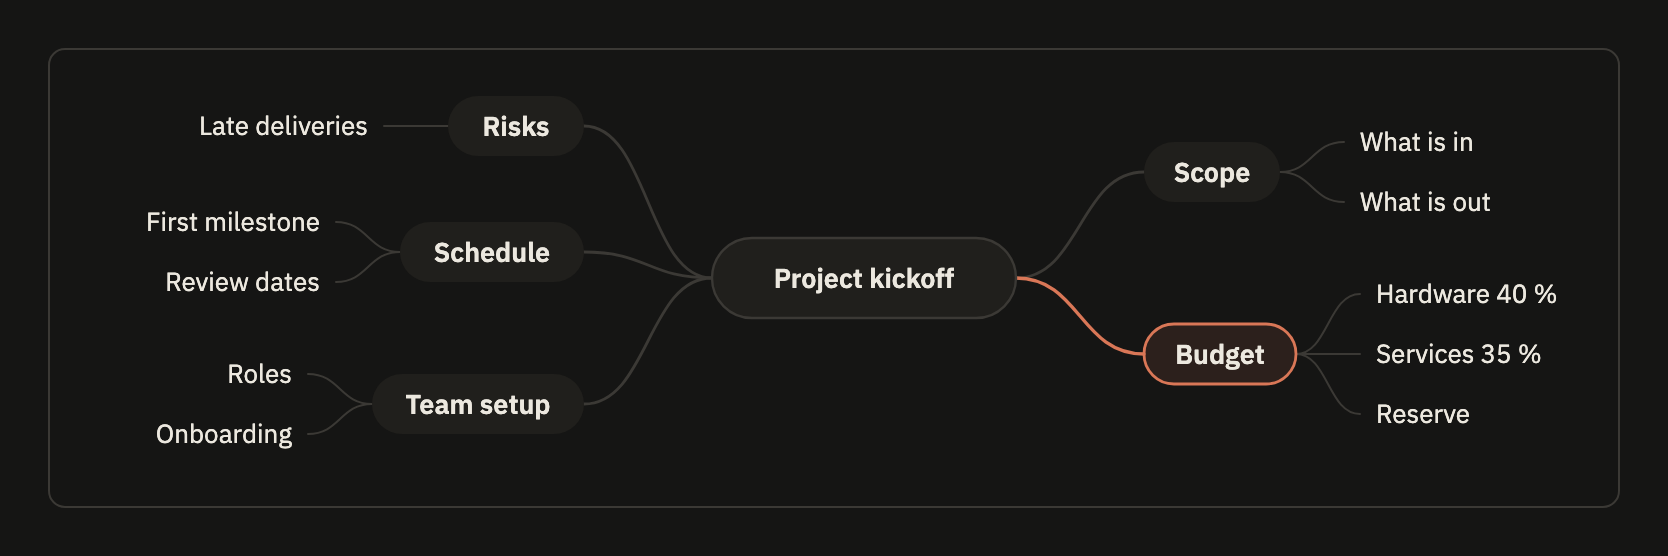
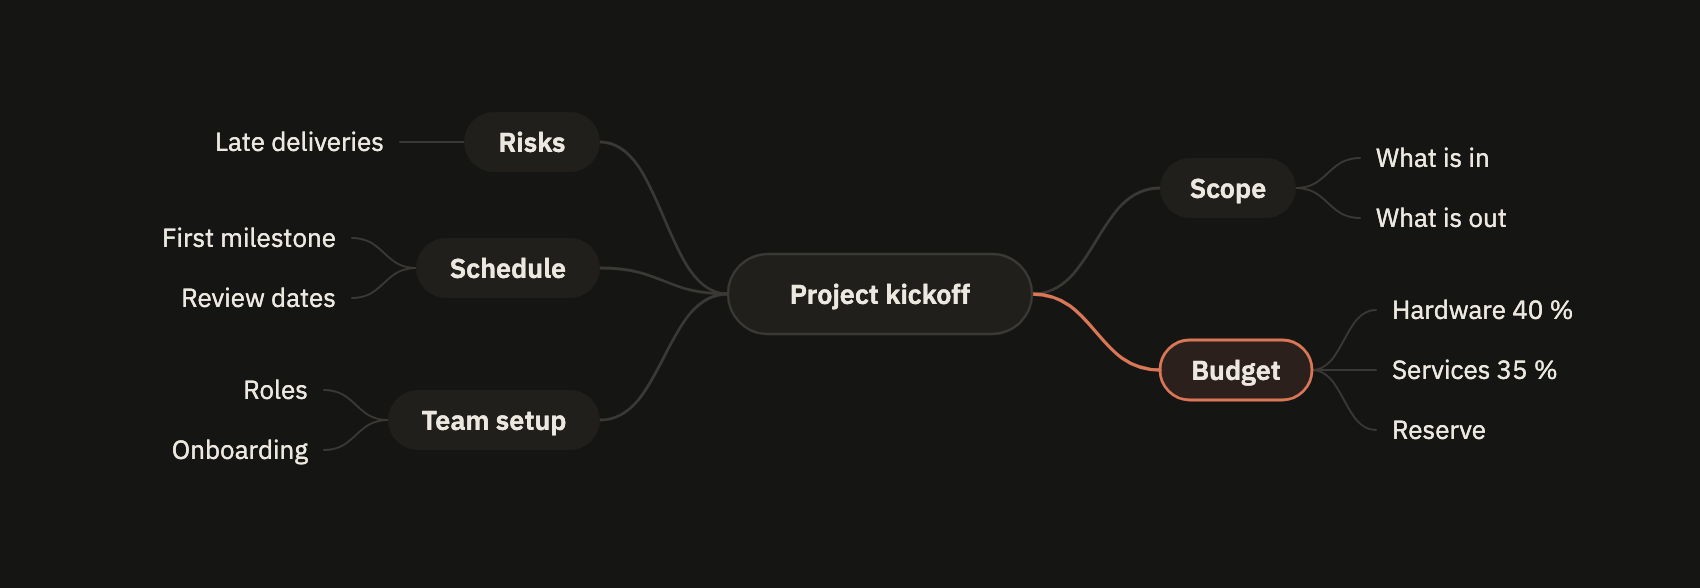
repo: README screenshots in the new look
Drawn again by scripts/screenshots.ts after the frame, bends, notes, roles and room changes.

diff --git a/docs/gallery.html b/docs/gallery.html
@@ -16,9 +16,9 @@
 </style>
 </head>
 <body>
-<figure id="mindmap"><svg xmlns="http://www.w3.org/2000/svg" viewBox="0 0 786 230" width="786" height="230" font-family="&quot;IBM Plex Sans&quot;, sans-serif"><defs></defs><rect x="0.5" y="0.5" width="785" height="229" rx="8" fill="#151514" stroke="#3b3935" stroke-width="1"/><path d="M484,115 C516,115 516,62 548,62" fill="none" stroke="#3b3935" stroke-width="1.4" stroke-linecap="round"/><path d="M616,62 C632,62 632,47 648,47" fill="none" stroke="#3b3935" stroke-width="1" stroke-linecap="round"/><path d="M616,62 C632,62 632,77 648,77" fill="none" stroke="#3b3935" stroke-width="1" stroke-linecap="round"/><path d="M484,115 C516,115 516,153 548,153" fill="none" stroke="#d97757" stroke-width="1.7" stroke-linecap="round"/><path d="M624,153 C640,153 640,123 656,123" fill="none" stroke="#3b3935" stroke-width="1" stroke-linecap="round"/><path d="M624,153 C640,153 640,153 656,153" fill="none" stroke="#3b3935" stroke-width="1" stroke-linecap="round"/><path d="M624,153 C640,153 640,183 656,183" fill="none" stroke="#3b3935" stroke-width="1" stroke-linecap="round"/><path d="M332,115 C300,115 300,39 268,39" fill="none" stroke="#3b3935" stroke-width="1.4" stroke-linecap="round"/><path d="M200,39 C184,39 184,39 168,39" fill="none" stroke="#3b3935" stroke-width="1" stroke-linecap="round"/><path d="M332,115 C300,115 300,102 268,102" fill="none" stroke="#3b3935" stroke-width="1.4" stroke-linecap="round"/><path d="M176,102 C160,102 160,87 144,87" fill="none" stroke="#3b3935" stroke-width="1" stroke-linecap="round"/><path d="M176,102 C160,102 160,117 144,117" fill="none" stroke="#3b3935" stroke-width="1" stroke-linecap="round"/><path d="M332,115 C300,115 300,178 268,178" fill="none" stroke="#3b3935" stroke-width="1.4" stroke-linecap="round"/><path d="M162,178 C146,178 146,163 130,163" fill="none" stroke="#3b3935" stroke-width="1" stroke-linecap="round"/><path d="M162,178 C146,178 146,193 130,193" fill="none" stroke="#3b3935" stroke-width="1" stroke-linecap="round"/><rect x="332" y="95" width="152" height="40" rx="20" fill="#201f1c" stroke="#3b3935" stroke-width="1.2"/><text x="408" y="115" fill="#ece8df" font-size="13.5" font-weight="600" text-anchor="middle" dominant-baseline="central">Project kickoff</text><rect x="548" y="47" width="68" height="30" rx="15" fill="#201f1c"/><text x="582" y="62" fill="#ece8df" font-size="13.5" font-weight="600" text-anchor="middle" dominant-baseline="central">Scope</text><text x="656" y="47" fill="#ece8df" font-size="13" text-anchor="start" dominant-baseline="central">What is in</text><text x="656" y="77" fill="#ece8df" font-size="13" text-anchor="start" dominant-baseline="central">What is out</text><rect x="548" y="138" width="76" height="30" rx="15" fill="#d97757" fill-opacity="0.12" stroke="#d97757" stroke-width="1.4"/><text x="586" y="153" fill="#ece8df" font-size="13.5" font-weight="600" text-anchor="middle" dominant-baseline="central">Budget</text><text x="664" y="123" fill="#ece8df" font-size="13" text-anchor="start" dominant-baseline="central">Hardware 40 %</text><text x="664" y="153" fill="#ece8df" font-size="13" text-anchor="start" dominant-baseline="central">Services 35 %</text><text x="664" y="183" fill="#ece8df" font-size="13" text-anchor="start" dominant-baseline="central">Reserve</text><rect x="200" y="24" width="68" height="30" rx="15" fill="#201f1c"/><text x="234" y="39" fill="#ece8df" font-size="13.5" font-weight="600" text-anchor="middle" dominant-baseline="central">Risks</text><text x="160" y="39" fill="#ece8df" font-size="13" text-anchor="end" dominant-baseline="central">Late deliveries</text><rect x="176" y="87" width="92" height="30" rx="15" fill="#201f1c"/><text x="222" y="102" fill="#ece8df" font-size="13.5" font-weight="600" text-anchor="middle" dominant-baseline="central">Schedule</text><text x="136" y="87" fill="#ece8df" font-size="13" text-anchor="end" dominant-baseline="central">First milestone</text><text x="136" y="117" fill="#ece8df" font-size="13" text-anchor="end" dominant-baseline="central">Review dates</text><rect x="162" y="163" width="106" height="30" rx="15" fill="#201f1c"/><text x="215" y="178" fill="#ece8df" font-size="13.5" font-weight="600" text-anchor="middle" dominant-baseline="central">Team setup</text><text x="122" y="163" fill="#ece8df" font-size="13" text-anchor="end" dominant-baseline="central">Roles</text><text x="122" y="193" fill="#ece8df" font-size="13" text-anchor="end" dominant-baseline="central">Onboarding</text></svg></figure>
-<figure id="swimlane"><svg xmlns="http://www.w3.org/2000/svg" viewBox="0 0 1624 464" width="1624" height="464" font-family="&quot;IBM Plex Sans&quot;, sans-serif"><defs><marker id="swimlane-arrow" viewBox="0 0 10 10" refX="9" refY="5" markerWidth="7" markerHeight="7" orient="auto-start-reverse"><path d="M0,0 L10,5 L0,10 z" fill="#a29e94"/></marker><marker id="swimlane-warn" viewBox="0 0 10 10" refX="9" refY="5" markerWidth="7" markerHeight="7" orient="auto-start-reverse"><path d="M0,0 L10,5 L0,10 z" fill="#e3a33f"/></marker></defs><rect x="0.5" y="0.5" width="1623" height="463" rx="8" fill="#151514" stroke="#3b3935" stroke-width="1"/><rect x="24" y="24" width="1576" height="416" rx="6" fill="none" stroke="#3b3935" stroke-width="1"/><line x1="24" y1="148" x2="1600" y2="148" stroke="#3b3935" stroke-width="1"/><line x1="24" y1="260" x2="1600" y2="260" stroke="#3b3935" stroke-width="1"/><line x1="24" y1="360" x2="1600" y2="360" stroke="#3b3935" stroke-width="1"/><line x1="140" y1="24" x2="140" y2="440" stroke="#3b3935" stroke-width="1"/><text x="38" y="86" fill="#a29e94" font-size="11.5" font-weight="600" letter-spacing="0.08em" dominant-baseline="central">REQUESTER</text><text x="38" y="204" fill="#a29e94" font-size="11.5" font-weight="600" letter-spacing="0.08em" dominant-baseline="central">APPROVER</text><text x="38" y="310" fill="#a29e94" font-size="11.5" font-weight="600" letter-spacing="0.08em" dominant-baseline="central">PURCHASING</text><text x="38" y="400" fill="#a29e94" font-size="11.5" font-weight="600" letter-spacing="0.08em" dominant-baseline="central">FINANCE</text><polyline points="324,98 344,98 344,204 360,204" fill="none" stroke="#a29e94" stroke-width="1.4" marker-end="url(#swimlane-arrow)"/><polyline points="524,204 560,204" fill="none" stroke="#a29e94" stroke-width="1.4" marker-end="url(#swimlane-arrow)"/><polyline points="634,240 634,310 748,310" fill="none" stroke="#a29e94" stroke-width="1.4" marker-end="url(#swimlane-arrow)"/><polyline points="634,168 634,98 748,98" fill="none" stroke="#a29e94" stroke-width="1.4" marker-end="url(#swimlane-arrow)"/><polyline points="832,78 832,40 444,40 444,180" fill="none" stroke="#a29e94" stroke-width="1.4" stroke-dasharray="5 4" marker-end="url(#swimlane-arrow)"/><polyline points="912,310 948,310" fill="none" stroke="#a29e94" stroke-width="1.4" marker-end="url(#swimlane-arrow)"/><polyline points="1112,310 1130,310 1130,400 1212,400" fill="none" stroke="#a29e94" stroke-width="1.4" marker-end="url(#swimlane-arrow)"/><polyline points="1376,400 1412,400" fill="none" stroke="#a29e94" stroke-width="1.4" marker-end="url(#swimlane-arrow)"/><text fill="#a29e94" font-family="&quot;IBM Plex Mono&quot;, monospace" font-size="11.5" x="729.5" y="294.5" text-anchor="middle" dominant-baseline="central">yes</text><text fill="#a29e94" font-family="&quot;IBM Plex Mono&quot;, monospace" font-size="11.5" x="733" y="82.5" text-anchor="middle" dominant-baseline="central">no</text><text fill="#a29e94" font-family="&quot;IBM Plex Mono&quot;, monospace" font-size="11.5" x="1179.5" y="384.5" text-anchor="middle" dominant-baseline="central">invoice</text><rect x="164" y="68" width="160" height="60" rx="6" fill="#151514" stroke="#3b3935" stroke-width="1.2"/><text x="244" y="89" fill="#ece8df" font-size="13.5" font-weight="600" text-anchor="middle" dominant-baseline="central">Submit purchase</text><text x="244" y="107" fill="#ece8df" font-size="13.5" font-weight="600" text-anchor="middle" dominant-baseline="central">request</text><rect x="752" y="78" width="160" height="40" rx="6" fill="#151514" stroke="#3b3935" stroke-width="1.2"/><text x="832" y="98" fill="#ece8df" font-size="13" text-anchor="middle" dominant-baseline="central">Revise request</text><rect x="364" y="184" width="160" height="40" rx="6" fill="#151514" stroke="#3b3935" stroke-width="1.2"/><text x="444" y="204" fill="#ece8df" font-size="13" text-anchor="middle" dominant-baseline="central">Review request</text><polygon points="634,168 704,204 634,240 564,204" fill="#151514" stroke="#3b3935" stroke-width="1.2"/><text x="634" y="195" fill="#ece8df" font-size="13" text-anchor="middle" dominant-baseline="central">Within</text><text x="634" y="213" fill="#ece8df" font-size="13" text-anchor="middle" dominant-baseline="central">budget?</text><rect x="752" y="280" width="160" height="60" rx="6" fill="#151514" stroke="#d97757" stroke-width="2"/><text x="832" y="301" fill="#ece8df" font-size="13" text-anchor="middle" dominant-baseline="central">Order from</text><text x="832" y="319" fill="#ece8df" font-size="13" text-anchor="middle" dominant-baseline="central">supplier</text><rect x="952" y="290" width="160" height="40" rx="6" fill="#151514" stroke="#3b3935" stroke-width="1.2"/><text x="1032" y="310" fill="#ece8df" font-size="13" text-anchor="middle" dominant-baseline="central">Receive goods</text><rect x="1216" y="380" width="160" height="40" rx="6" fill="#151514" stroke="#3b3935" stroke-width="1.2"/><text x="1296" y="400" fill="#ece8df" font-size="13" text-anchor="middle" dominant-baseline="central">Pay invoice</text><rect x="1416" y="380" width="160" height="40" rx="6" fill="#151514" stroke="#3b3935" stroke-width="1.2"/><text x="1496" y="400" fill="#ece8df" font-size="13.5" font-weight="600" text-anchor="middle" dominant-baseline="central">Close request</text></svg></figure>
-<figure id="sequence"><svg xmlns="http://www.w3.org/2000/svg" viewBox="0 0 552 580" width="552" height="580" font-family="&quot;IBM Plex Sans&quot;, sans-serif"><defs><marker id="sequence-arrow" viewBox="0 0 10 10" refX="9" refY="5" markerWidth="7" markerHeight="7" orient="auto-start-reverse"><path d="M0,0 L10,5 L0,10 z" fill="#a29e94"/></marker><marker id="sequence-open" viewBox="0 0 10 10" refX="9" refY="5" markerWidth="7" markerHeight="7" orient="auto-start-reverse"><path d="M1,1 L9,5 L1,9" fill="none" stroke="#a29e94" stroke-width="1.6"/></marker><marker id="sequence-cross" viewBox="0 0 10 10" refX="5" refY="5" markerWidth="7" markerHeight="7" orient="auto-start-reverse"><path d="M2,2 L8,8 M8,2 L2,8" fill="none" stroke="#a29e94" stroke-width="1.6"/></marker></defs><rect x="0.5" y="0.5" width="551" height="579" rx="8" fill="#151514" stroke="#3b3935" stroke-width="1"/><rect x="66" y="88" width="152" height="111" rx="10" fill="#201f1c" stroke="#3b3935" stroke-width="1.2"/><rect x="66" y="217" width="430" height="189" rx="10" fill="#201f1c" stroke="#3b3935" stroke-width="1.2"/><line x1="82" y1="64" x2="82" y2="556" stroke="#3b3935" stroke-width="1" stroke-dasharray="4 4"/><line x1="202" y1="64" x2="202" y2="556" stroke="#3b3935" stroke-width="1" stroke-dasharray="4 4"/><line x1="322" y1="64" x2="322" y2="556" stroke="#3b3935" stroke-width="1" stroke-dasharray="4 4"/><line x1="480" y1="64" x2="480" y2="556" stroke="#3b3935" stroke-width="1" stroke-dasharray="4 4"/><rect x="34" y="24" width="96" height="40" rx="6" fill="#151514" stroke="#3b3935" stroke-width="1.2"/><text x="82" y="44" fill="#ece8df" font-size="13.5" font-weight="600" text-anchor="middle" dominant-baseline="central">Poller</text><rect x="154" y="24" width="96" height="40" rx="6" fill="#151514" stroke="#3b3935" stroke-width="1.2"/><text x="202" y="44" fill="#ece8df" font-size="13.5" font-weight="600" text-anchor="middle" dominant-baseline="central">git</text><rect x="274" y="24" width="96" height="40" rx="6" fill="#151514" stroke="#3b3935" stroke-width="1.2"/><text x="322" y="44" fill="#ece8df" font-size="13.5" font-weight="600" text-anchor="middle" dominant-baseline="central">Indexer</text><rect x="432" y="24" width="96" height="40" rx="6" fill="#151514" stroke="#3b3935" stroke-width="1.2"/><text x="480" y="44" fill="#ece8df" font-size="13.5" font-weight="600" text-anchor="middle" dominant-baseline="central">Store</text><rect x="24" y="424" width="236" height="32" rx="6" fill="#201f1c" stroke="#3b3935" stroke-width="1"/><text x="36" y="440" fill="#ece8df" font-size="13" dominant-baseline="central">a vanished branch is an error</text><polyline points="82,142 201,142" fill="none" stroke="#a29e94" stroke-width="1.4" marker-end="url(#sequence-arrow)"/><polyline points="202,184 83,184" fill="none" stroke="#a29e94" stroke-width="1.4" stroke-dasharray="5 4" marker-end="url(#sequence-arrow)"/><polyline points="82,271 321,271" fill="none" stroke="#a29e94" stroke-width="1.4" marker-end="url(#sequence-arrow)"/><polyline points="322,289 346,289 346,307 323,307" fill="none" stroke="#a29e94" stroke-width="1.4" marker-end="url(#sequence-arrow)"/><polyline points="322,349 479,349" fill="none" stroke="#a29e94" stroke-width="1.4" marker-end="url(#sequence-arrow)"/><polyline points="480,391 323,391" fill="none" stroke="#a29e94" stroke-width="1.4" stroke-dasharray="5 4" marker-end="url(#sequence-open)"/><polyline points="82,498 202,498" fill="none" stroke="#a29e94" stroke-width="1.4" marker-end="url(#sequence-cross)"/><polyline points="82,540 480,540" fill="none" stroke="#a29e94" stroke-width="1.4"/><rect x="75" y="95" width="124" height="16" fill="#201f1c"/><text font-family="&quot;IBM Plex Mono&quot;, monospace" font-size="11.5" dominant-baseline="central" x="78" y="103" fill="#ece8df" font-weight="600">loop</text><text font-family="&quot;IBM Plex Mono&quot;, monospace" font-size="11.5" dominant-baseline="central" x="119.4" y="103" fill="#a29e94">every cycle</text><rect x="75" y="224" width="110" height="16" fill="#201f1c"/><text font-family="&quot;IBM Plex Mono&quot;, monospace" font-size="11.5" dominant-baseline="central" x="78" y="232" fill="#ece8df" font-weight="600">opt</text><text font-family="&quot;IBM Plex Mono&quot;, monospace" font-size="11.5" dominant-baseline="central" x="112.5" y="232" fill="#a29e94">head moved</text><rect x="95" y="117" width="94" height="18" fill="#201f1c"/><text x="142" y="126" fill="#ece8df" font-size="13" text-anchor="middle" dominant-baseline="central">fetch origin</text><rect x="109.5" y="159" width="65" height="18" fill="#201f1c"/><text x="142" y="168" fill="#ece8df" font-size="13" text-anchor="middle" dominant-baseline="central">new head</text><rect x="137.5" y="246" width="129" height="18" fill="#201f1c"/><text x="202" y="255" fill="#ece8df" font-family="&quot;IBM Plex Mono&quot;, monospace" font-size="12" text-anchor="middle" dominant-baseline="central">Index(List&lt;File&gt;)</text><rect x="351" y="289" width="116" height="18" fill="#201f1c"/><text x="354" y="298" fill="#ece8df" font-size="13" text-anchor="start" dominant-baseline="central">chunk and embed</text><rect x="354" y="324" width="94" height="18" fill="#201f1c"/><text x="401" y="333" fill="#ece8df" font-size="13" text-anchor="middle" dominant-baseline="central">write chunks</text><rect x="365" y="366" width="72" height="18" fill="#201f1c"/><text x="401" y="375" fill="#ece8df" font-size="13" text-anchor="middle" dominant-baseline="central">committed</text><rect x="106" y="473" width="72" height="18" fill="#151514"/><text x="142" y="482" fill="#ece8df" font-size="13" text-anchor="middle" dominant-baseline="central">stale ref</text><rect x="238" y="515" width="86" height="18" fill="#151514"/><text x="281" y="524" fill="#ece8df" font-family="&quot;IBM Plex Mono&quot;, monospace" font-size="12" text-anchor="middle" dominant-baseline="central">last_run_at</text></svg></figure>
+<figure id="mindmap"><svg xmlns="http://www.w3.org/2000/svg" viewBox="0 0 802 246" width="802" height="246" font-family="&quot;IBM Plex Sans&quot;, sans-serif"><defs></defs><rect width="802" height="246" rx="8" fill="#151514"/><path d="M492,123 C524,123 524,70 556,70" fill="none" stroke="#3b3935" stroke-width="1.4" stroke-linecap="round"/><path d="M624,70 C640,70 640,55 656,55" fill="none" stroke="#3b3935" stroke-width="1" stroke-linecap="round"/><path d="M624,70 C640,70 640,85 656,85" fill="none" stroke="#3b3935" stroke-width="1" stroke-linecap="round"/><path d="M492,123 C524,123 524,161 556,161" fill="none" stroke="#d97757" stroke-width="1.7" stroke-linecap="round"/><path d="M632,161 C648,161 648,131 664,131" fill="none" stroke="#3b3935" stroke-width="1" stroke-linecap="round"/><path d="M632,161 C648,161 648,161 664,161" fill="none" stroke="#3b3935" stroke-width="1" stroke-linecap="round"/><path d="M632,161 C648,161 648,191 664,191" fill="none" stroke="#3b3935" stroke-width="1" stroke-linecap="round"/><path d="M340,123 C308,123 308,47 276,47" fill="none" stroke="#3b3935" stroke-width="1.4" stroke-linecap="round"/><path d="M208,47 C192,47 192,47 176,47" fill="none" stroke="#3b3935" stroke-width="1" stroke-linecap="round"/><path d="M340,123 C308,123 308,110 276,110" fill="none" stroke="#3b3935" stroke-width="1.4" stroke-linecap="round"/><path d="M184,110 C168,110 168,95 152,95" fill="none" stroke="#3b3935" stroke-width="1" stroke-linecap="round"/><path d="M184,110 C168,110 168,125 152,125" fill="none" stroke="#3b3935" stroke-width="1" stroke-linecap="round"/><path d="M340,123 C308,123 308,186 276,186" fill="none" stroke="#3b3935" stroke-width="1.4" stroke-linecap="round"/><path d="M170,186 C154,186 154,171 138,171" fill="none" stroke="#3b3935" stroke-width="1" stroke-linecap="round"/><path d="M170,186 C154,186 154,201 138,201" fill="none" stroke="#3b3935" stroke-width="1" stroke-linecap="round"/><rect x="340" y="103" width="152" height="40" rx="20" fill="#201f1c" stroke="#3b3935" stroke-width="1.2"/><text x="416" y="123" fill="#ece8df" font-size="13.5" font-weight="600" text-anchor="middle" dominant-baseline="central">Project kickoff</text><rect x="556" y="55" width="68" height="30" rx="15" fill="#201f1c"/><text x="590" y="70" fill="#ece8df" font-size="13.5" font-weight="600" text-anchor="middle" dominant-baseline="central">Scope</text><text x="664" y="55" fill="#ece8df" font-size="13" text-anchor="start" dominant-baseline="central">What is in</text><text x="664" y="85" fill="#ece8df" font-size="13" text-anchor="start" dominant-baseline="central">What is out</text><rect x="556" y="146" width="76" height="30" rx="15" fill="#d97757" fill-opacity="0.12" stroke="#d97757" stroke-width="1.4"/><text x="594" y="161" fill="#ece8df" font-size="13.5" font-weight="600" text-anchor="middle" dominant-baseline="central">Budget</text><text x="672" y="131" fill="#ece8df" font-size="13" text-anchor="start" dominant-baseline="central">Hardware 40 %</text><text x="672" y="161" fill="#ece8df" font-size="13" text-anchor="start" dominant-baseline="central">Services 35 %</text><text x="672" y="191" fill="#ece8df" font-size="13" text-anchor="start" dominant-baseline="central">Reserve</text><rect x="208" y="32" width="68" height="30" rx="15" fill="#201f1c"/><text x="242" y="47" fill="#ece8df" font-size="13.5" font-weight="600" text-anchor="middle" dominant-baseline="central">Risks</text><text x="168" y="47" fill="#ece8df" font-size="13" text-anchor="end" dominant-baseline="central">Late deliveries</text><rect x="184" y="95" width="92" height="30" rx="15" fill="#201f1c"/><text x="230" y="110" fill="#ece8df" font-size="13.5" font-weight="600" text-anchor="middle" dominant-baseline="central">Schedule</text><text x="144" y="95" fill="#ece8df" font-size="13" text-anchor="end" dominant-baseline="central">First milestone</text><text x="144" y="125" fill="#ece8df" font-size="13" text-anchor="end" dominant-baseline="central">Review dates</text><rect x="170" y="171" width="106" height="30" rx="15" fill="#201f1c"/><text x="223" y="186" fill="#ece8df" font-size="13.5" font-weight="600" text-anchor="middle" dominant-baseline="central">Team setup</text><text x="130" y="171" fill="#ece8df" font-size="13" text-anchor="end" dominant-baseline="central">Roles</text><text x="130" y="201" fill="#ece8df" font-size="13" text-anchor="end" dominant-baseline="central">Onboarding</text></svg></figure>
+<figure id="swimlane"><svg xmlns="http://www.w3.org/2000/svg" viewBox="0 0 1744 524" width="1744" height="524" font-family="&quot;IBM Plex Sans&quot;, sans-serif"><defs><marker id="swimlane-arrow" viewBox="0 0 10 10" refX="9" refY="5" markerWidth="7" markerHeight="7" orient="auto-start-reverse"><path d="M0,0 L10,5 L0,10 z" fill="#a29e94"/></marker><marker id="swimlane-warn" viewBox="0 0 10 10" refX="9" refY="5" markerWidth="7" markerHeight="7" orient="auto-start-reverse"><path d="M0,0 L10,5 L0,10 z" fill="#e3a33f"/></marker></defs><rect width="1744" height="524" rx="8" fill="#151514"/><rect x="32" y="32" width="1680" height="460" rx="6" fill="none" stroke="#3b3935" stroke-width="1"/><line x1="32" y1="168" x2="1712" y2="168" stroke="#3b3935" stroke-width="1"/><line x1="32" y1="288" x2="1712" y2="288" stroke="#3b3935" stroke-width="1"/><line x1="32" y1="400" x2="1712" y2="400" stroke="#3b3935" stroke-width="1"/><line x1="148" y1="32" x2="148" y2="492" stroke="#3b3935" stroke-width="1"/><text x="46" y="100" fill="#a29e94" font-size="11.5" font-weight="600" letter-spacing="0.08em" dominant-baseline="central">REQUESTER</text><text x="46" y="228" fill="#a29e94" font-size="11.5" font-weight="600" letter-spacing="0.08em" dominant-baseline="central">APPROVER</text><text x="46" y="344" fill="#a29e94" font-size="11.5" font-weight="600" letter-spacing="0.08em" dominant-baseline="central">PURCHASING</text><text x="46" y="446" fill="#a29e94" font-size="11.5" font-weight="600" letter-spacing="0.08em" dominant-baseline="central">FINANCE</text><path d="M348,112 L364,112 Q372,112 372,120 L372,220 Q372,228 380,228 L392,228" fill="none" stroke="#a29e94" stroke-width="1.4" marker-end="url(#swimlane-arrow)"/><path d="M564,228 L608,228" fill="none" stroke="#a29e94" stroke-width="1.4" marker-end="url(#swimlane-arrow)"/><path d="M686,264 L686,336 Q686,344 694,344 L804,344" fill="none" stroke="#a29e94" stroke-width="1.4" marker-end="url(#swimlane-arrow)"/><path d="M686,192 L686,120 Q686,112 694,112 L804,112" fill="none" stroke="#a29e94" stroke-width="1.4" marker-end="url(#swimlane-arrow)"/><path d="M892,90 L892,56 Q892,48 884,48 L488,48 Q480,48 480,56 L480,202" fill="none" stroke="#a29e94" stroke-width="1.4" stroke-dasharray="5 4" marker-end="url(#swimlane-arrow)"/><path d="M976,344 L1020,344" fill="none" stroke="#a29e94" stroke-width="1.4" marker-end="url(#swimlane-arrow)"/><path d="M1192,344 L1202,344 Q1210,344 1210,352 L1210,438 Q1210,446 1218,446 L1292,446" fill="none" stroke="#a29e94" stroke-width="1.4" marker-end="url(#swimlane-arrow)"/><path d="M1464,446 L1508,446" fill="none" stroke="#a29e94" stroke-width="1.4" marker-end="url(#swimlane-arrow)"/><text fill="#a29e94" font-family="&quot;IBM Plex Mono&quot;, monospace" font-size="10" letter-spacing="0.08em" x="785.5" y="328.5" text-anchor="middle" dominant-baseline="central">YES</text><text fill="#a29e94" font-family="&quot;IBM Plex Mono&quot;, monospace" font-size="10" letter-spacing="0.08em" x="789" y="96.5" text-anchor="middle" dominant-baseline="central">NO</text><text fill="#a29e94" font-family="&quot;IBM Plex Mono&quot;, monospace" font-size="10" letter-spacing="0.08em" x="1260" y="430.5" text-anchor="middle" dominant-baseline="central">INVOICE</text><rect x="180" y="80" width="168" height="64" rx="32" fill="#201f1c" stroke="#76746f" stroke-width="1.2"/><text x="264" y="103" fill="#ece8df" font-size="13.5" font-weight="600" text-anchor="middle" dominant-baseline="central">Submit purchase</text><text x="264" y="121" fill="#ece8df" font-size="13.5" font-weight="600" text-anchor="middle" dominant-baseline="central">request</text><rect x="808" y="90" width="168" height="44" rx="6" fill="#151514" stroke="#76746f" stroke-width="1.2"/><text x="892" y="112" fill="#ece8df" font-size="13" font-weight="600" text-anchor="middle" dominant-baseline="central">Revise request</text><rect x="396" y="206" width="168" height="44" rx="6" fill="#151514" stroke="#76746f" stroke-width="1.2"/><text x="480" y="228" fill="#ece8df" font-size="13" font-weight="600" text-anchor="middle" dominant-baseline="central">Review request</text><polygon points="686,192 760,228 686,264 612,228" fill="#151514" stroke="#76746f" stroke-width="1.2"/><text x="686" y="219" fill="#ece8df" font-size="13" font-weight="600" text-anchor="middle" dominant-baseline="central">Within</text><text x="686" y="237" fill="#ece8df" font-size="13" font-weight="600" text-anchor="middle" dominant-baseline="central">budget?</text><rect x="808" y="312" width="168" height="64" rx="6" fill="#2b201b" stroke="#d97757" stroke-width="1.4"/><text x="892" y="335" fill="#ece8df" font-size="13" font-weight="600" text-anchor="middle" dominant-baseline="central">Order from</text><text x="892" y="353" fill="#ece8df" font-size="13" font-weight="600" text-anchor="middle" dominant-baseline="central">supplier</text><rect x="1024" y="322" width="168" height="44" rx="6" fill="#151514" stroke="#76746f" stroke-width="1.2"/><text x="1108" y="344" fill="#ece8df" font-size="13" font-weight="600" text-anchor="middle" dominant-baseline="central">Receive goods</text><rect x="1296" y="424" width="168" height="44" rx="6" fill="#151514" stroke="#76746f" stroke-width="1.2"/><text x="1380" y="446" fill="#ece8df" font-size="13" font-weight="600" text-anchor="middle" dominant-baseline="central">Pay invoice</text><rect x="1512" y="424" width="168" height="44" rx="22" fill="#201f1c" stroke="#76746f" stroke-width="1.2"/><text x="1596" y="446" fill="#ece8df" font-size="13.5" font-weight="600" text-anchor="middle" dominant-baseline="central">Close request</text></svg></figure>
+<figure id="sequence"><svg xmlns="http://www.w3.org/2000/svg" viewBox="0 0 572 668" width="572" height="668" font-family="&quot;IBM Plex Sans&quot;, sans-serif"><defs><marker id="sequence-arrow" viewBox="0 0 10 10" refX="9" refY="5" markerWidth="7" markerHeight="7" orient="auto-start-reverse"><path d="M0,0 L10,5 L0,10 z" fill="#a29e94"/></marker><marker id="sequence-open" viewBox="0 0 10 10" refX="9" refY="5" markerWidth="7" markerHeight="7" orient="auto-start-reverse"><path d="M1,1 L9,5 L1,9" fill="none" stroke="#a29e94" stroke-width="1.6"/></marker><marker id="sequence-cross" viewBox="0 0 10 10" refX="5" refY="5" markerWidth="7" markerHeight="7" orient="auto-start-reverse"><path d="M2,2 L8,8 M8,2 L2,8" fill="none" stroke="#a29e94" stroke-width="1.6"/></marker></defs><rect width="572" height="668" rx="8" fill="#151514"/><rect x="70" y="96" width="160" height="123" rx="6" fill="#201f1c" stroke="#3b3935" stroke-width="1"/><rect x="70" y="245" width="438" height="217" rx="6" fill="#201f1c" stroke="#3b3935" stroke-width="1"/><line x1="86" y1="72" x2="86" y2="636" stroke="#3b3935" stroke-width="1" stroke-dasharray="4 4"/><line x1="214" y1="72" x2="214" y2="636" stroke="#3b3935" stroke-width="1" stroke-dasharray="4 4"/><line x1="342" y1="72" x2="342" y2="636" stroke="#3b3935" stroke-width="1" stroke-dasharray="4 4"/><line x1="492" y1="72" x2="492" y2="636" stroke="#3b3935" stroke-width="1" stroke-dasharray="4 4"/><rect x="38" y="32" width="96" height="40" rx="6" fill="#151514" stroke="#76746f" stroke-width="1.2"/><text x="86" y="52" fill="#ece8df" font-size="13.5" font-weight="600" text-anchor="middle" dominant-baseline="central">Poller</text><rect x="166" y="32" width="96" height="40" rx="6" fill="#151514" stroke="#76746f" stroke-width="1.2"/><text x="214" y="52" fill="#ece8df" font-size="13.5" font-weight="600" text-anchor="middle" dominant-baseline="central">git</text><rect x="294" y="32" width="96" height="40" rx="6" fill="#151514" stroke="#76746f" stroke-width="1.2"/><text x="342" y="52" fill="#ece8df" font-size="13.5" font-weight="600" text-anchor="middle" dominant-baseline="central">Indexer</text><rect x="444" y="32" width="96" height="40" rx="6" fill="#151514" stroke="#76746f" stroke-width="1.2"/><text x="492" y="52" fill="#ece8df" font-size="13.5" font-weight="600" text-anchor="middle" dominant-baseline="central">Store</text><path d="M32,488 H264 Q268,488 268,492 V516 Q268,520 264,520 H32 Z" fill="#201f1c"/><line x1="33" y1="488" x2="33" y2="520" stroke="#a29e94" stroke-width="2"/><text x="44" y="504" fill="#a29e94" font-size="13" dominant-baseline="central">a vanished branch is an error</text><path d="M86,150 L213,150" fill="none" stroke="#a29e94" stroke-width="1.4" marker-end="url(#sequence-arrow)"/><path d="M214,200 L87,200" fill="none" stroke="#a29e94" stroke-width="1.4" stroke-dasharray="5 4" marker-end="url(#sequence-arrow)"/><path d="M86,299 L341,299" fill="none" stroke="#a29e94" stroke-width="1.4" marker-end="url(#sequence-arrow)"/><path d="M342,325 L360,325 Q366,325 366,331 L366,337 Q366,343 360,343 L343,343" fill="none" stroke="#a29e94" stroke-width="1.4" marker-end="url(#sequence-arrow)"/><path d="M342,393 L491,393" fill="none" stroke="#a29e94" stroke-width="1.4" marker-end="url(#sequence-arrow)"/><path d="M492,443 L343,443" fill="none" stroke="#a29e94" stroke-width="1.4" stroke-dasharray="5 4" marker-end="url(#sequence-open)"/><path d="M86,570 L214,570" fill="none" stroke="#a29e94" stroke-width="1.4" marker-end="url(#sequence-cross)"/><path d="M86,620 L492,620" fill="none" stroke="#a29e94" stroke-width="1.4"/><rect x="79" y="103" width="137" height="16" fill="#201f1c"/><rect x="82" y="104" width="40.8" height="14" rx="3" fill="#151514" stroke="#3b3935" stroke-width="1"/><text font-family="&quot;IBM Plex Mono&quot;, monospace" font-size="10" dominant-baseline="central" letter-spacing="0.12em" x="88" y="111" fill="#a29e94">LOOP</text><text font-family="&quot;IBM Plex Mono&quot;, monospace" font-size="11.5" dominant-baseline="central" x="136.6" y="111" fill="#a29e94">every cycle</text><rect x="79" y="252" width="123" height="16" fill="#201f1c"/><rect x="82" y="253" width="33.6" height="14" rx="3" fill="#151514" stroke="#3b3935" stroke-width="1"/><text font-family="&quot;IBM Plex Mono&quot;, monospace" font-size="10" dominant-baseline="central" letter-spacing="0.12em" x="88" y="260" fill="#a29e94">OPT</text><text font-family="&quot;IBM Plex Mono&quot;, monospace" font-size="11.5" dominant-baseline="central" x="129.4" y="260" fill="#a29e94">head moved</text><rect x="106" y="125" width="88" height="18" fill="#201f1c"/><text x="150" y="134" fill="#a29e94" font-family="&quot;IBM Plex Mono&quot;, monospace" font-size="10" letter-spacing="0.08em" text-anchor="middle" dominant-baseline="central">FETCH ORIGIN</text><rect x="119.5" y="175" width="61" height="18" fill="#201f1c"/><text x="150" y="184" fill="#a29e94" font-family="&quot;IBM Plex Mono&quot;, monospace" font-size="10" letter-spacing="0.08em" text-anchor="middle" dominant-baseline="central">NEW HEAD</text><rect x="154.5" y="274" width="119" height="18" fill="#201f1c"/><text x="214" y="283" fill="#a29e94" font-family="&quot;IBM Plex Mono&quot;, monospace" font-size="11" text-anchor="middle" dominant-baseline="central">Index(List&lt;File&gt;)</text><rect x="371" y="325" width="108" height="18" fill="#201f1c"/><text x="374" y="334" fill="#a29e94" font-family="&quot;IBM Plex Mono&quot;, monospace" font-size="10" letter-spacing="0.08em" text-anchor="start" dominant-baseline="central">CHUNK AND EMBED</text><rect x="373" y="368" width="88" height="18" fill="#201f1c"/><text x="417" y="377" fill="#a29e94" font-family="&quot;IBM Plex Mono&quot;, monospace" font-size="10" letter-spacing="0.08em" text-anchor="middle" dominant-baseline="central">WRITE CHUNKS</text><rect x="383" y="418" width="68" height="18" fill="#201f1c"/><text x="417" y="427" fill="#a29e94" font-family="&quot;IBM Plex Mono&quot;, monospace" font-size="10" letter-spacing="0.08em" text-anchor="middle" dominant-baseline="central">COMMITTED</text><rect x="116" y="545" width="68" height="18" fill="#151514"/><text x="150" y="554" fill="#a29e94" font-family="&quot;IBM Plex Mono&quot;, monospace" font-size="10" letter-spacing="0.08em" text-anchor="middle" dominant-baseline="central">STALE REF</text><rect x="249.5" y="595" width="79" height="18" fill="#151514"/><text x="289" y="604" fill="#a29e94" font-family="&quot;IBM Plex Mono&quot;, monospace" font-size="11" text-anchor="middle" dominant-baseline="central">last_run_at</text></svg></figure>
 <script>
   const show = () => {
     for (const f of document.querySelectorAll("figure"))
